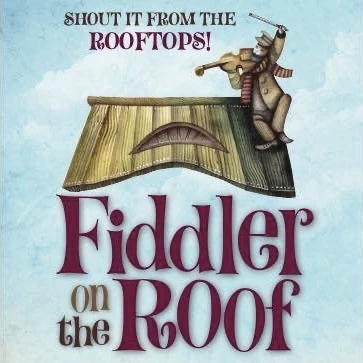
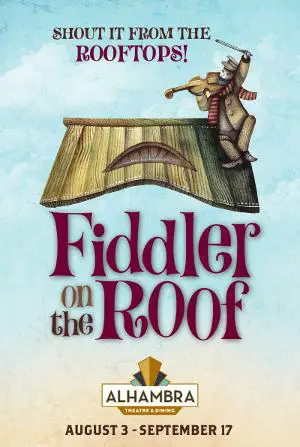
Updated Alhambra Theatre and Dining

diff --git a/content/reviews/2023-08-14-Fiddler-on-the-Roof-Review.md b/content/reviews/2023-08-14-Fiddler-on-the-Roof-Review.md
@@ -1,0 +1,50 @@
+---
+title: "A Roof-Raising Performance: Alhambra Theatre & Dining's 'Fiddler on the Roof'"
+date: 2023-08-14T09:03:13.736Z
+featured_image: /media/photos/2023-Fiddler-on-the-Roof-01.webp
+featured_image_attr: Ray Hollister
+featured_image_caption: The beautiful set of Anatevka sits quietly as it waits for the production to begin. The reviewer was overly captivated by the performance and forgot to take more photos once the show began!
+featured_image_alt: 
+description: "Don't miss the masterful production of *Fiddler on the Roof* at The Alhambra Theatre & Dining, featuring an ensemble of a gifted cast, groundbreaking staging, and delightful dining."
+author: Ray Hollister
+production: 2023 Fiddler on the Roof
+Theatre: The Alhambra Theatre & Dining
+cast: 
+- Tod Booth
+- Lisa Valdini Booth
+- Patti Eyler
+- Sarah Warshavsky
+- Natalie Drake
+- Bear Manescalhi
+- Alexander Blanco
+- Sofia Smith
+- Melvin Edward Nash II
+- Jessie Booth
+- Johnny Pettegrew
+- Shain Stroff
+- Erick Ariel Sureda
+---
+Any review of a show at The Alhambra Theatre & Dining must begin with a review of the food, because every dining experience is expertly paired to the production, and *Fiddler on the Roof* is no exception.
+
+{{< figure src="/media/photos/2023-Fiddler-on-the-Roof-02.webp" alt="A slow-braised leg of lamb atop a bed of couscous, carrots, tomato and fennel" caption="Slow-braised leg of lamb atop a bed of couscous, carrots, tomatoes and fennel" attr="Ray Hollister" >}}
+
+The dining experience at the Alhambra Theatre & Dining's production of *Fiddler on the Roof* sets the stage for a delightful evening. The lentil and vegetable soup comforts you with its warmth and richness, while the salad offers a refreshing contrast, being cool, bright, and tangy. The slow-braised leg of lamb is robust in flavor, albeit a bit firm — not tough, but not exactly tender either. (It's almost exactly how I would expect the lamb to be served if I had dinner at Tevye's.) Contrastly, the couscous has a delightfully tender texture that dances on the tounge. The rosemary-infused sauce and al dente vegetables add layers of flavor, and the meal concludes with an apple crumb pie that's gently spiced and topped to perfection. Overall, the dining experience met and exceeded the reviewer's expectations, which served as an excellent appetizer to a remarkable evening.
+
+{{< figure src="/media/photos/2023-Fiddler-on-the-Roof-03.webp" alt="Apple Crumb Pie" caption="Apple Crumb Pie" attr="Ray Hollister" >}}
+
+On stage, Tod Booth's portrayal of Tevye is lovable and curt, with perfect comic timing. It's a rare occasion to experience an audience unleash such a thunderous roar of laughter—several times over. His rendition of "If I Were a Rich Man" was outstanding; he owned the stage and took the audience along for a joyous ride. His portrayal was passionate, especially when speaking of his faith and his love of his daughters. A standout moment occurs when Booth leads the family in the Sabbath dinner prayer. He effortlessly pivots from being a boisterous performer and storyteller to a reverent father, captivating the audience with the transition.
+
+Lisa Valdini Booth's Golde is firm, strong, loving, and kind. Couples in the audience were seen holding hands and smiling at each other during her performance. Her chemistry with Tod Booth is palpable, and their duet of "Do You Love Me?" was a beautiful tearjerker. The pair encapsulate the complexities of marriage, weaving love, angst, irritation, and agony into their performances. Her acting is a masterclass, and her voice is a delight to hear.
+
+The supporting cast was equally impressive. Patti Eyler's Yenta the matchmaker is a scene-stealer, delivering her lines with with impeccable comedic precision and a tone that adds a layer of humor and warmth to the community of Anatevka.
+
+The daughters and their suitors bring a youthful energy and emotional depth to the production. Sarah Warshavsky's Tzeitel and Bear Manescalhi's Motel share an endearing awkwardness that captures the essence of first love, while Natalie Drake's Hodel and Alexander Blanco's Perchik exude a palpable tension and chemistry, embodying the spirit of change and revolution. Sofia Smith's Chava and Melvin Edward Nash II's Fyedka offer a nuanced portrayal of forbidden love, capturing the audience with their beautiful anxiousness and wonder. Each couple's unique dynamics contribute to the overarching themes of tradition, change, and the complexities of love, making their stories both individually compelling and integral to the show's emotional landscape.
+
+Under the expert guidance of lighting designer Johnny Pettegrew, the lighting in the production was nothing short of flawless. His captivating design not only illuminated the stage but also added layers of depth and dimension to each scene, enhancing the emotional impact and visual appeal of the production. The lighting choices worked in harmony with the narrative, subtly guiding the audience's focus and elevating the overall experience.
+
+The choreography, led by Shain Stroff and co-choreographer Erick Ariel Sureda, is a marvel of creativity and precision. Despite the constraints of a small stage, their choreography makes every movement feel expansive and full of life. The dance scenes are joyous and convincing, effectively communicating the tension between tradition and change. Stroff and Sureda have managed to utilize every square inch of the stage without making it feel crowded, a testament to their massive talent and ingenuity. Their work not only complements the story but also becomes a character in its own right, adding layers of meaning and excitement to the production.
+
+While the production had a few incredibly minor hiccups—like the occasional audio static during "Anatefka," a *less-than-authentic* Rabbi's beard, and some audio issues with Motel's microphone—these did not detract from the overall experience. This production has earned a spot as one of my Alhambra favorites and it is easily one of the best performances I've enjoyed in Jacksonville. The emotional range, palpable character chemistry, and dynamic lighting design coalesce into an unforgettable experience. Moments like the Constable's reluctant bullying and the emotional rift between Tevye and Chava were deeply affecting, while the exuberant dance scenes were a sheer delight.
+
+*Fiddler on the Roof* at the Alhambra Theatre & Dining is an unmissable production. The ensemble of a gifted cast, groundbreaking staging, and a delightful dining experience creates a memorable outing that both honors the original work and brings new layers of understanding and enjoyment. Whether you're a seasoned "Fiddler" or just finding your way to the roof, this production hits all the right notes.
+

diff --git a/content/productions/2023/2023-Fiddler-on-the-Roof.md b/content/productions/2023/2023-Fiddler-on-the-Roof.md
@@ -7,7 +7,7 @@ featured_image: 2023_Fiddler_on_the_Roof.webp
 featured_image_caption: Graphic of Fiddler on the Roof at the Alhambra
 featured_image_attr: Alhambra Theatre & Dining
 playbill:
-Theatre: The Alhambra Theatre & Dining
+Theatre: Alhambra Theatre & Dining
 Venue: Alhambra Theatre
 Tickets: https://sales.alhambrajax.com/100/tickets.shows.html?playID=1428&code=jaxplays
 showtimes:
@@ -116,4 +116,11 @@ Reviews:
 - "Review: FIDDLER ON THE ROOF at Alhambra Theatre and Dining | BroadwayWorld": https://www.broadwayworld.com/jacksonville/article/Review-FIDDLER-ON-THE-ROOF-at-Alhambra-Theatre-and-Dining-20230806
 - "Alhambra’s ‘Fiddler’ worth the 25-year wait | Ponte Vedra Recorder": https://pontevedrarecorder.com/stories/alhambras-fiddler-worth-the-25-year-wait,60216
 - "FIDDLER hits all the right notes at the Alhambra | Folio Weekly": https://folioweekly.com/2023/08/07/fiddler-hits-all-the-right-notes-at-the-alhambra/
+- "Review: FIDDLER ON THE ROOF at Alhambra Theatre and Dining | Broadway World": https://www.broadwayworld.com/jacksonville/article/Review-FIDDLER-ON-THE-ROOF-at-Alhambra-Theatre-and-Dining-20230806
+Press: 
+- "The Alhambra presents “Fiddler On The Roof” | River City Live - News4Jax": https://www.news4jax.com/river-city-live/2023/08/04/the-alhambra-presents-fiddler-on-the-roof/
+- "'Fiddler on the Roof' returns to the Alhambra after 20 years | The Florida Times-Union": https://www.jacksonville.com/picture-gallery/entertainment/arts/2023/08/04/fiddler-on-the-roof-returns-to-jacksonvilles-alhambra-theatre-dining/12314744002/
+- "“Fiddler on the Roof” opens this week": https://pontevedrarecorder.com/stories/fiddler-on-the-roof-opens-this-week,59422?
+- "A Fiddler on the Roof… at the Alhambra | Folio Weekly": https://folioweekly.com/2023/07/29/a-fiddler-on-the-roof-at-the-alhambra/
+- "FIDDLER ON THE ROOF Opens At Alhambra Theatre & Dining | Broadway World": https://www.broadwayworld.com/jacksonville/article/FIDDLER-ON-THE-ROOF-Opens-At-Alhambra-Theatre-Dining-20230727
 ---

diff --git a/content/productions/2023/2023-Beauty-and-the-Beast.md b/content/productions/2023/2023-Beauty-and-the-Beast.md
@@ -7,7 +7,7 @@ featured_image: 2023_Beauty_and_the_Beast.jpeg
 featured_image_caption: Graphic of Beauty and the Beast at the Alhambra
 featured_image_attr: Alhambra Theatre & Dining
 playbill:
-Theatre: The Alhambra Theatre & Dining
+Theatre: Alhambra Theatre & Dining
 Venue: Alhambra Theatre
 show_details:
 - Music: Alan Menken - wiki

diff --git a/content/productions/2022/2022-Ghost-(musical).md b/content/productions/2022/2022-Ghost-(musical).md
@@ -10,7 +10,7 @@ featured_image: 2022_Ghost_(musical).jpg
 featured_image_attr:
 featured_image_alt:
 featured_image_caption:
-Theatre: The Alhambra Theatre & Dining
+Theatre: Alhambra Theatre & Dining
 show_details:
 - Music: Dave Stewart - wiki, Glen Ballard - wiki
 - Lyrics: Dave Stewart, Glen Ballard, Bruce Joel Rubin - wiki

diff --git a/content/productions/COVID Cancellations/2020-Love-Sex-and-the-IRS.md b/content/productions/COVID Cancellations/2020-Love-Sex-and-the-IRS.md
@@ -5,7 +5,7 @@ layout: productions
 title: Love, Sex and the I.R.S.
 date: 2020-09-24
 closing_date: 2020-10-18
-Theatre: The Alhambra Theatre & Dining
+Theatre: Alhambra Theatre & Dining
 Website: https://www.alhambrajax.com/show/love-sex-and-the-irs/
 show_details:
 - Writer: Billy Van Zandt - wiki

diff --git a/content/productions/2022/2022-Grumpy-Old-Men.md b/content/productions/2022/2022-Grumpy-Old-Men.md
@@ -8,7 +8,7 @@ featured_image_attr:
 featured_image_alt:
 featured_image_caption:
 category: musical
-Theatre: The Alhambra Theatre & Dining
+Theatre: Alhambra Theatre & Dining
 Tickets: https://sales.alhambrajax.com/100/tickets.shows.html?&playID=394
 showtimes:
 - 2022-08-11 12:00:00

diff --git a/content/productions/2022/2022-The-Wizard-of-Oz.md b/content/productions/2022/2022-The-Wizard-of-Oz.md
@@ -8,7 +8,7 @@ featured_image_attr:
 featured_image_alt:
 featured_image_caption:
 category: musical
-Theatre: The Alhambra Theatre & Dining
+Theatre: Alhambra Theatre & Dining
 Tickets: https://sales.alhambrajax.com/100/tickets.shows.html?playID=393
 showtimes:
 - 2022-06-16 12:00:00

diff --git a/content/productions/COVID Cancellations/2020-Singin'-in-the-Rain.md b/content/productions/COVID Cancellations/2020-Singin'-in-the-Rain.md
@@ -5,7 +5,7 @@ layout: productions
 title: Singin' in the Rain
 date: 2020
 category: musical
-Theatre: The Alhambra Theatre & Dining
+Theatre: Alhambra Theatre & Dining
 Website: https://www.alhambrajax.com/show/singin-in-the-rain/
 show_details:
 - Music: Nacio Herb Brown - wiki

diff --git a/content/productions/COVID Cancellations/2020-The-Music-Man.md b/content/productions/COVID Cancellations/2020-The-Music-Man.md
@@ -5,7 +5,7 @@ layout: productions
 title: The Music Man
 date: 2020
 category: musical
-Theatre: The Alhambra Theatre & Dining
+Theatre: Alhambra Theatre & Dining
 Website: https://www.alhambrajax.com/show/the-music-man/
 show_details:
 - Music: Meredith Willson - wiki

diff --git a/content/productions/2020/2020-Love-Letters.md b/content/productions/2020/2020-Love-Letters.md
@@ -7,7 +7,7 @@ date: 2020-01-09
 closing_date: 2020-02-08
 Genres: 
 - Play
-Theatre: The Alhambra Theatre & Dining
+Theatre: Alhambra Theatre & Dining
 show_details:
 - Writer: A. R. Gurney - wiki
 Website: https://www.alhambrajax.com/show/love-letters/

diff --git a/content/productions/2020/2020-How-to-Succeed-in-Business-Without-Really-Trying.md b/content/productions/2020/2020-How-to-Succeed-in-Business-Without-Really-Trying.md
@@ -8,7 +8,7 @@ featured_image_attr:
 featured_image_alt:
 featured_image_caption:
 category: musical
-Theatre: The Alhambra Theatre & Dining
+Theatre: Alhambra Theatre & Dining
 Venue: Alhambra Theatre
 show_details:
 - Music: Frank Loesser - wiki

diff --git a/content/productions/2022/2022-White-Christmas-(musical).md b/content/productions/2022/2022-White-Christmas-(musical).md
@@ -8,7 +8,7 @@ featured_image_attr:
 featured_image_alt:
 featured_image_caption:
 category: musical
-Theatre: The Alhambra Theatre & Dining
+Theatre: Alhambra Theatre & Dining
 show_details:
 - Music: Irving Berlin - wiki
 - Lyrics: Irving Berlin
